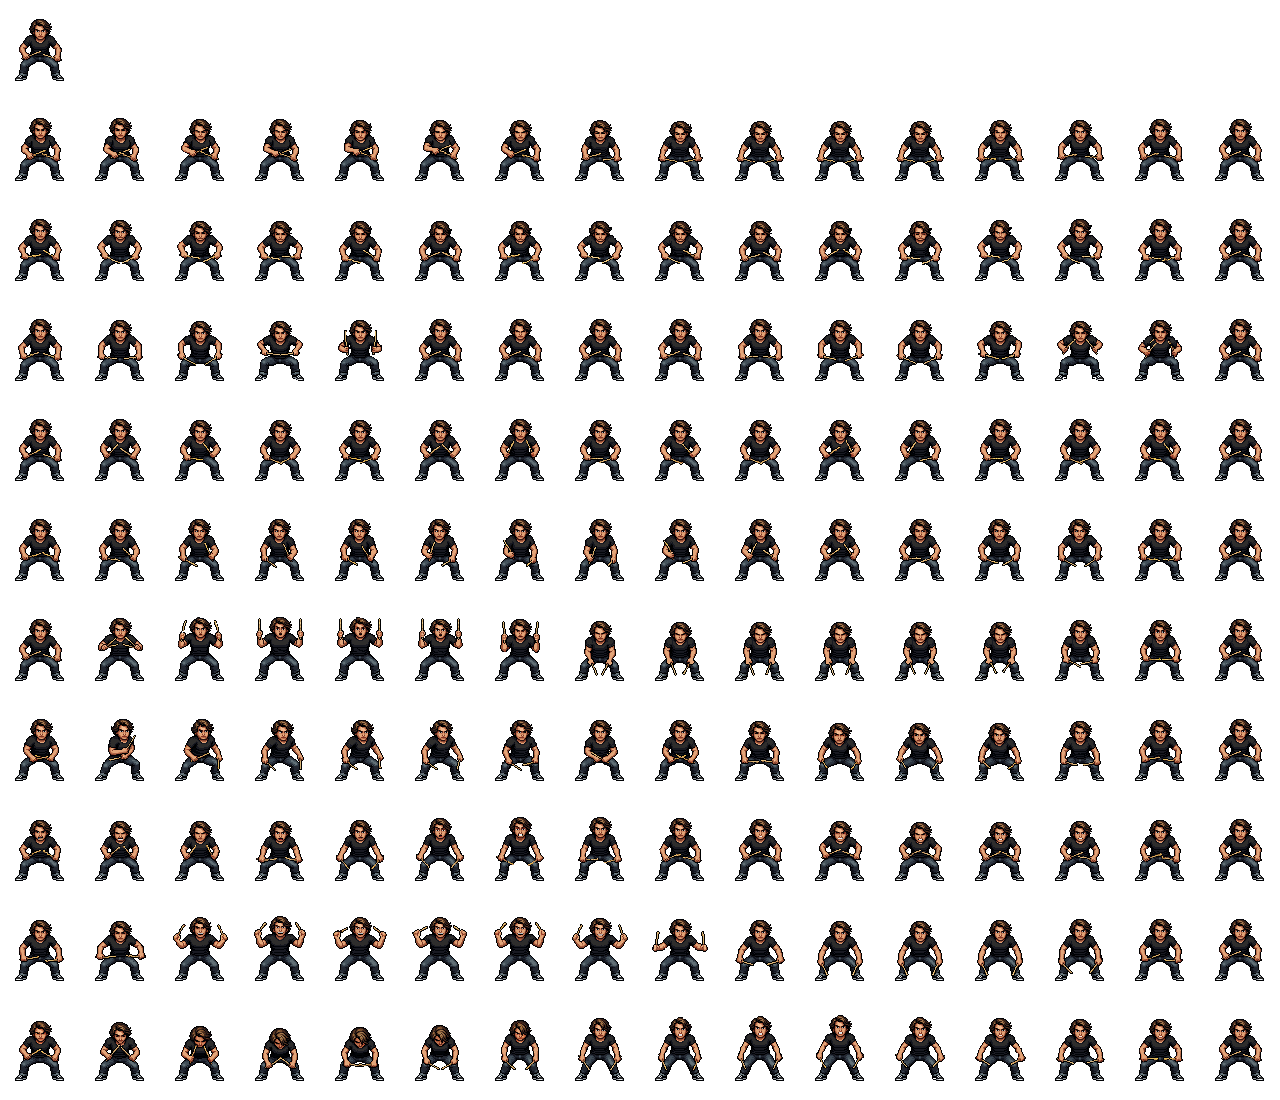
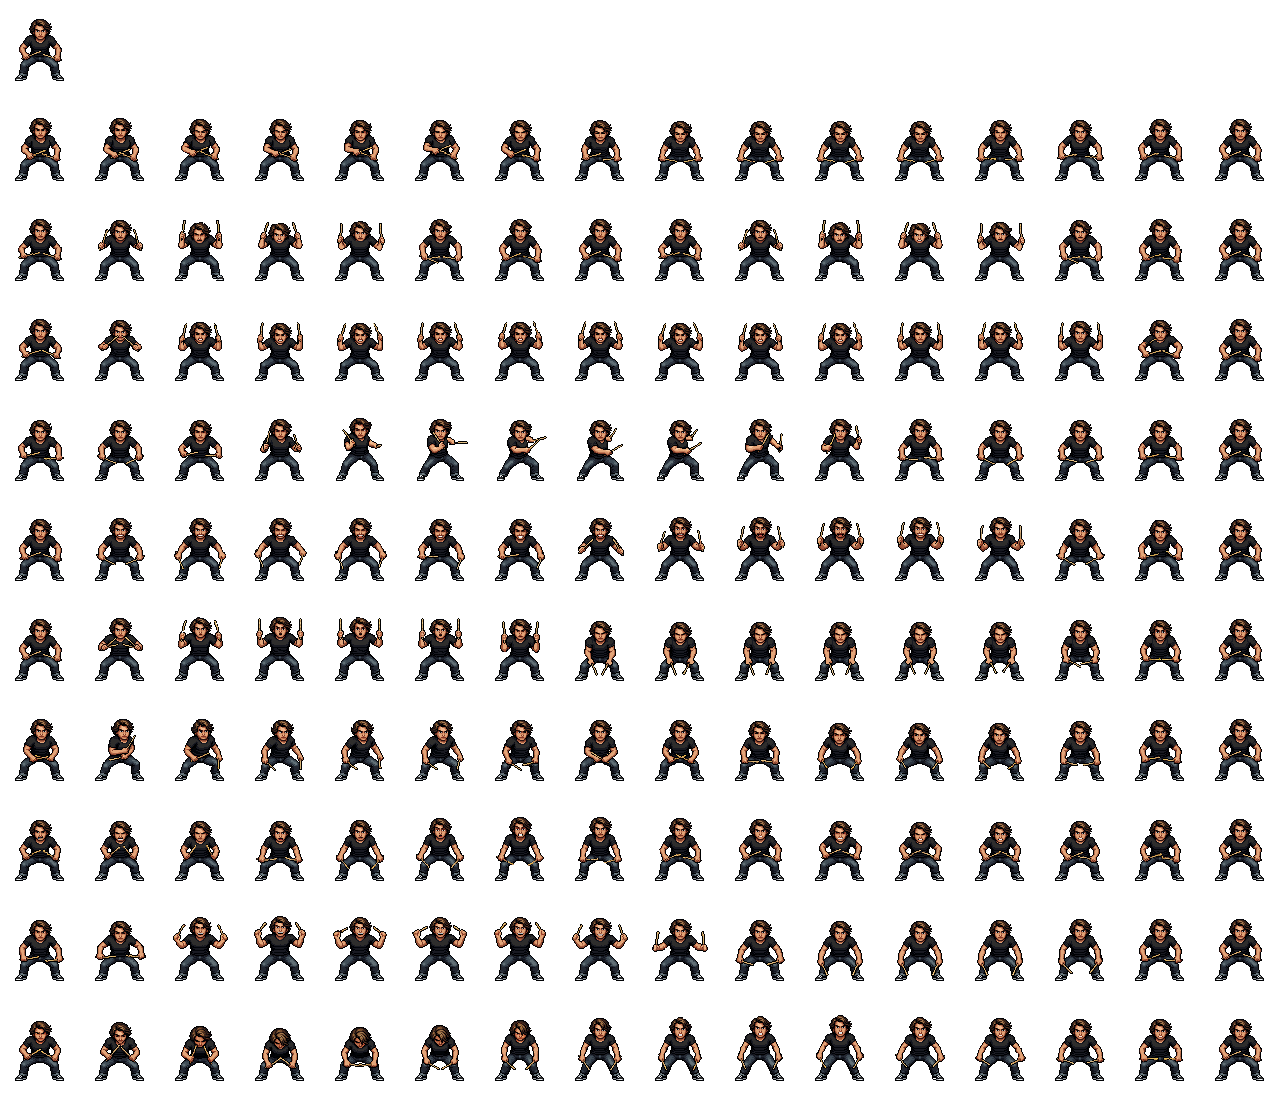
v0.5.1: a much livelier drummer
- Redo the drummer's four grooves (and the guitarist's hype groove) with
  prompts that keep the motion above the kit: sticks over his head,
  head-banging, hair flying. Measured movement is 1.5-2.8x the old loops.
- Recipe entries can carry "version": 2; animate.py and fetch_and_pack.py
  use <member>_<name>_v2 so the old animation stays until deleted.
- Retro staging: kit drawn at 0.8x and the drummer raised a quarter of a
  musician's height, so his arms and sticks show above the drums.
- animate.py trims the hub pose back to the 64 px character canvas.

Claude-Session: https://claude.ai/code/session_01W67msevkeHJXCEPZAC4mdJ

diff --git a/src/world/bandSprites.js b/src/world/bandSprites.js
@@ -44,12 +44,14 @@ function pixelTexture(url) {
 
 /**
  * @param {THREE.Scene} scene
- * @param {{manifest: object, urls: Record<string, string>}} art
+ * @param {{manifest: object, urls: Record<string, string>, kitScale?: number, drummerLift?: number}} art
  *   manifest = band.json from scripts/pixellab/fetch_and_pack.py;
- *   urls = image URL per member name, plus `drumkit`
+ *   urls = image URL per member name, plus `drumkit`;
+ *   kitScale / drummerLift = how big the kit is and how high the drummer
+ *   stands behind it (see bandArt.js)
  */
 export function createSpriteBand(scene, art) {
-  const { manifest, urls } = art;
+  const { manifest, urls, kitScale = 1, drummerLift: liftShare = 0.08 } = art;
   const group = new THREE.Group();
   scene.add(group);
   const shadowMat = new THREE.MeshBasicMaterial({ color: '#000', transparent: true, opacity: 0.4, depthWrite: false });
@@ -60,7 +62,7 @@ export function createSpriteBand(scene, art) {
     .filter(([name]) => name !== 'drummer')
     .map(([, m]) => m.height || m.footY));
   const PX = BAND_HEIGHT / tallest;
-  const drummerLift = 0.08 * tallest; // pixels the drummer stands above the kit's base
+  const drummerLift = liftShare * tallest; // pixels the drummer stands above the kit's base
 
   // Where each musician stands (feet position).
   const SPOTS = {
@@ -117,8 +119,10 @@ export function createSpriteBand(scene, art) {
 
   // The drum kit sits in front of the drummer and hides his legs.
   const kitInfo = manifest.drumkit;
-  const kitGeo = new THREE.PlaneGeometry(kitInfo.size[0] * PX, kitInfo.size[1] * PX);
-  kitGeo.translate(0, (kitInfo.size[1] * PX) / 2, 0); // base on the riser
+  const kitW = kitInfo.size[0] * PX * kitScale;
+  const kitH = kitInfo.size[1] * PX * kitScale;
+  const kitGeo = new THREE.PlaneGeometry(kitW, kitH);
+  kitGeo.translate(0, kitH / 2, 0); // base on the riser
   const kit = new THREE.Mesh(kitGeo, new THREE.MeshBasicMaterial({ map: pixelTexture(urls.drumkit), alphaTest: 0.5 }));
   kit.position.set(DRUM_RISER.x, TOP + DRUM_RISER.h, DRUM_RISER.z);
   group.add(kit);

diff --git a/src/world/bandArt.js b/src/world/bandArt.js
@@ -30,6 +30,10 @@ export const HD_ART = {
 /** 64 px chunky 16-bit look with the full animation library (animations.json). */
 export const RETRO_ART = {
   manifest: retroManifest,
+  // A slightly smaller kit, with the drummer standing higher behind it, so
+  // his arms and sticks are seen above the drums (otherwise only his head shows).
+  kitScale: 0.8,
+  drummerLift: 0.25, // a quarter of a musician's height
   urls: {
     bassist: retroBassist, singer: retroSinger, guitarist: retroGuitarist, drummer: retroDrummer,
     drumkit: retroKit, micstand: retroMic,

diff --git a/scripts/pixellab/animate.py b/scripts/pixellab/animate.py
@@ -13,7 +13,11 @@ animations can be chained without a jump. Safe to re-run: existing ones are
 skipped. Waits politely when PixelLab's 8 job slots are full.
 
 Needs <folder>/<member>.png from a previous fetch_and_pack run (the hub pose is
-taken from its first cell).
+taken from its first cell, trimmed back to the character's canvas size).
+
+To REDO an animation (say the prompt was too timid), edit its prompt and give
+it "version": 2. It is then made under a new PixelLab name
+(<member>_<name>_v2), so the old one stays until you delete it.
 """
 import base64
 import io
@@ -28,10 +32,21 @@ sys.path.insert(0, os.path.dirname(os.path.abspath(__file__)))
 from mcp_client import call_tool  # noqa: E402
 
 
-def hub_pose(folder, member, band):
-    """The standing pose (row 0, col 0 of the packed sheet) as PNG base64."""
+def pixellab_name(member, anim):
+    """The animation's name in PixelLab: <member>_<name>, plus _v2, _v3... for redos."""
+    version = anim.get("version", 1)
+    return f"{member}_{anim['name']}" + (f"_v{version}" if version > 1 else "")
+
+
+def hub_pose(folder, member, band, canvas):
+    """The standing pose (row 0, col 0 of the packed sheet) as PNG base64.
+
+    Packed cells are bigger than the character's canvas (animations can reach
+    outside it), and the pose sits in the middle, so cut the canvas-sized
+    square out of the centre."""
     cw, ch = band["members"][member]["cell"]
-    img = Image.open(os.path.join(folder, f"{member}.png")).convert("RGBA").crop((0, 0, cw, ch))
+    x, y = (cw - canvas) // 2, (ch - canvas) // 2
+    img = Image.open(os.path.join(folder, f"{member}.png")).convert("RGBA").crop((x, y, x + canvas, y + canvas))
     buf = io.BytesIO()
     img.save(buf, "PNG")
     return base64.b64encode(buf.getvalue()).decode()
@@ -53,14 +68,15 @@ def main():
     recipe = json.load(open(os.path.join(folder, "animations.json")))
     band = json.load(open(os.path.join(folder, "band.json")))
     frames = recipe.get("frames", 16)
+    canvas = recipe.get("canvas", 64)
 
     todo = []
     for member, spec in recipe["members"].items():
         cid = src["members"][member]["character_id"]
         have = existing_animations(cid)
-        hub = hub_pose(folder, member, band)
+        hub = hub_pose(folder, member, band, canvas)
         for a in spec["anims"]:
-            full = f"{member}_{a['name']}"
+            full = pixellab_name(member, a)
             if full in have:
                 continue
             prompt = f"{a['prompt']}, {spec['holding']}, then returns to the starting pose"

diff --git a/scripts/pixellab/fetch_and_pack.py b/scripts/pixellab/fetch_and_pack.py
@@ -80,14 +80,19 @@ def pack_member(name, zip_bytes, out_dir, allow_missing, recipe=None):
     rows = {"hub": [cell(0, 0)]}  # row 0, column 0 = the standing pose, facing the viewer
     extra = {}  # per-animation info copied from the recipe (block, loop, beats...)
     wanted = ANIMS
+    source_name = {anim: f"{name}_{anim}" for anim in ANIMS}  # name in PixelLab
     if recipe:
         wanted = [a["name"] for a in recipe["anims"]]
-        extra = {a["name"]: {k: v for k, v in a.items() if k not in ("name", "prompt")} for a in recipe["anims"]}
+        extra = {a["name"]: {k: v for k, v in a.items() if k not in ("name", "prompt", "version")}
+                 for a in recipe["anims"]}
+        # Redone animations ("version": 2) live in PixelLab as <member>_<name>_v2.
+        source_name = {a["name"]: f"{name}_{a['name']}" + (f"_v{a['version']}" if a.get("version", 1) > 1 else "")
+                       for a in recipe["anims"]}
     for anim in wanted:
-        info = next((r for r in meta["rows"] if r.get("animation") == f"{name}_{anim}"), None)
+        info = next((r for r in meta["rows"] if r.get("animation") == source_name[anim]), None)
         if info is None:
             if not allow_missing:
-                sys.exit(f"{name}: animation '{name}_{anim}' not found in PixelLab sheet")
+                sys.exit(f"{name}: animation '{source_name[anim]}' not found in PixelLab sheet")
             print(f"  {name}: no '{anim}' animation yet, using the standing pose")
             rows[anim] = [rows["hub"][0]]
             continue

diff --git a/docs/ART_PIPELINE.md b/docs/ART_PIPELINE.md
@@ -39,7 +39,11 @@ python3 scripts/pixellab/fetch_and_pack.py --source assets/art/pixellab-retro/so
 npm run dev                                                             # check at ?autoplay&view=stage
 ```
 
-To add an animation, add an entry to the recipe and run both commands again. The game picks it up from its block automatically. While PixelLab is still generating a character's animations, its sheet download returns *423 Locked*, so pack only after `animate.py` says `done`.
+To add an animation, add an entry to the recipe and run both commands again.
+
+To **redo** one (for example because it barely moves), rewrite its prompt and add `"version": 2`. `animate.py` then makes it under a new PixelLab name (`drummer_hype_v2`), and the packer uses that one. The old version stays in PixelLab until you delete it, so you can compare before committing. In v0.5.1 the drummer's four grooves and the guitarist's hype groove were redone this way. The first prompts put the stick hits "in front of his waist", which is exactly where the drum kit hides him. The new prompts keep all the motion above his chest (sticks over his head, head-banging, hair flying), and the measured movement went up 1.5–2.8×. **Tip:** describe motion the camera can actually see. The game picks it up from its block automatically. While PixelLab is still generating a character's animations, its sheet download returns *423 Locked*, so pack only after `animate.py` says `done`.
+
+**Drummer staging.** The Retro kit is drawn at 0.8× size, and the drummer stands a quarter of a musician's height above its base (`kitScale` and `drummerLift` in `bandArt.js`). That way his arms and sticks show above the drums instead of only his head.
 
 **Props.** `source.json` can list `props` (objects that belong to a musician). The mic stand is `{"for": "guitarist"}`. The packer trims each prop. `bandSprites.js` scales it to the owner's mouth height and stands it beside him.
 

diff --git a/README.md b/README.md
@@ -101,4 +101,4 @@ docs/                 design blueprint, guides, reference images
 
 ## Status
 
-v0.5: the animated Retro band is the default (41 animations in blocks, switched on bar lines), the guitarist's mic and backing vocals, a roomier crowd, and a per-frame smoothness test. v0.4: the X-ROADS / Rhythm Riot names, glass controls, the pixel-art crowd, a version badge, a retro band trial look and automatic smoothness. v0.3 added the HD pixel band made with PixelLab. v0.2 added the 3D band, chorus effects, game over, the timing check and Settings. It has been checked in headless Chrome only. The automated browser test covers note counts, audio sync, taps, pause/resume, every band look, the smoothness budget, game over and the timing check. **It has not been tested on a real iPhone yet**, so do that before calling a release done. See `docs/BURN_BRIGHT_MASTER_BLUEPRINT.md` for the full design vision and roadmap.
+v0.5.1: a much livelier drummer (redone grooves, raised behind a smaller kit). v0.5: the animated Retro band is the default (41 animations in blocks, switched on bar lines), the guitarist's mic and backing vocals, a roomier crowd, and a per-frame smoothness test. v0.4: the X-ROADS / Rhythm Riot names, glass controls, the pixel-art crowd, a version badge, a retro band trial look and automatic smoothness. v0.3 added the HD pixel band made with PixelLab. v0.2 added the 3D band, chorus effects, game over, the timing check and Settings. It has been checked in headless Chrome only. The automated browser test covers note counts, audio sync, taps, pause/resume, every band look, the smoothness budget, game over and the timing check. **It has not been tested on a real iPhone yet**, so do that before calling a release done. See `docs/BURN_BRIGHT_MASTER_BLUEPRINT.md` for the full design vision and roadmap.

diff --git a/docs/NEXT_STEPS.md b/docs/NEXT_STEPS.md
@@ -1,6 +1,6 @@
 # Next steps (handoff)
 
-_Last updated: v0.5._
+_Last updated: v0.5.1._
 
 ## Where things stand
 - **Names:** the band is **X-ROADS**; the game is called **Rhythm Riot** for now (the owner is still deciding).
@@ -36,6 +36,7 @@ Each needs: a PixelLab animation (or a few), a trigger (a combo, a song section,
 ## Other open items
 - **Test on a real iPhone** (audio, touch, frame rate with `?fps`).
 - **Different stages and backgrounds** (the owner's idea for later): the venue is all in `stage.js`, so a second venue could be a new function chosen per song.
-- **Animation-maker note:** `animate.py` sends the packed hub cell as the end frame. The packed cells are now larger than 64 px (animations widen the canvas). If PixelLab ever rejects that size, crop the hub to the character's 64 px canvas first.
+- **v0.5.1 drummer fix:** the owner said the drummer barely moved. His grooves were redone with big above-the-kit motion (`"version": 2` in the recipe), and he now stands higher behind a slightly smaller kit. Next time an animation looks timid, measure it first (see `ART_PIPELINE.md`) and redo it the same way.
+- **LED wall:** the drummer's head now covers part of the "ROADS" lettering in the gameplay view. Raising the logo on the wall (`drawBandLogo` in `stage.js`) would fix it.
 - **Musically accurate note chart:** the current chart was generated automatically from the audio. A note editor would help fix it.
 - **Rotate the PixelLab key:** an earlier key was pasted into chat. Make a new one and store it only as an environment secret.
